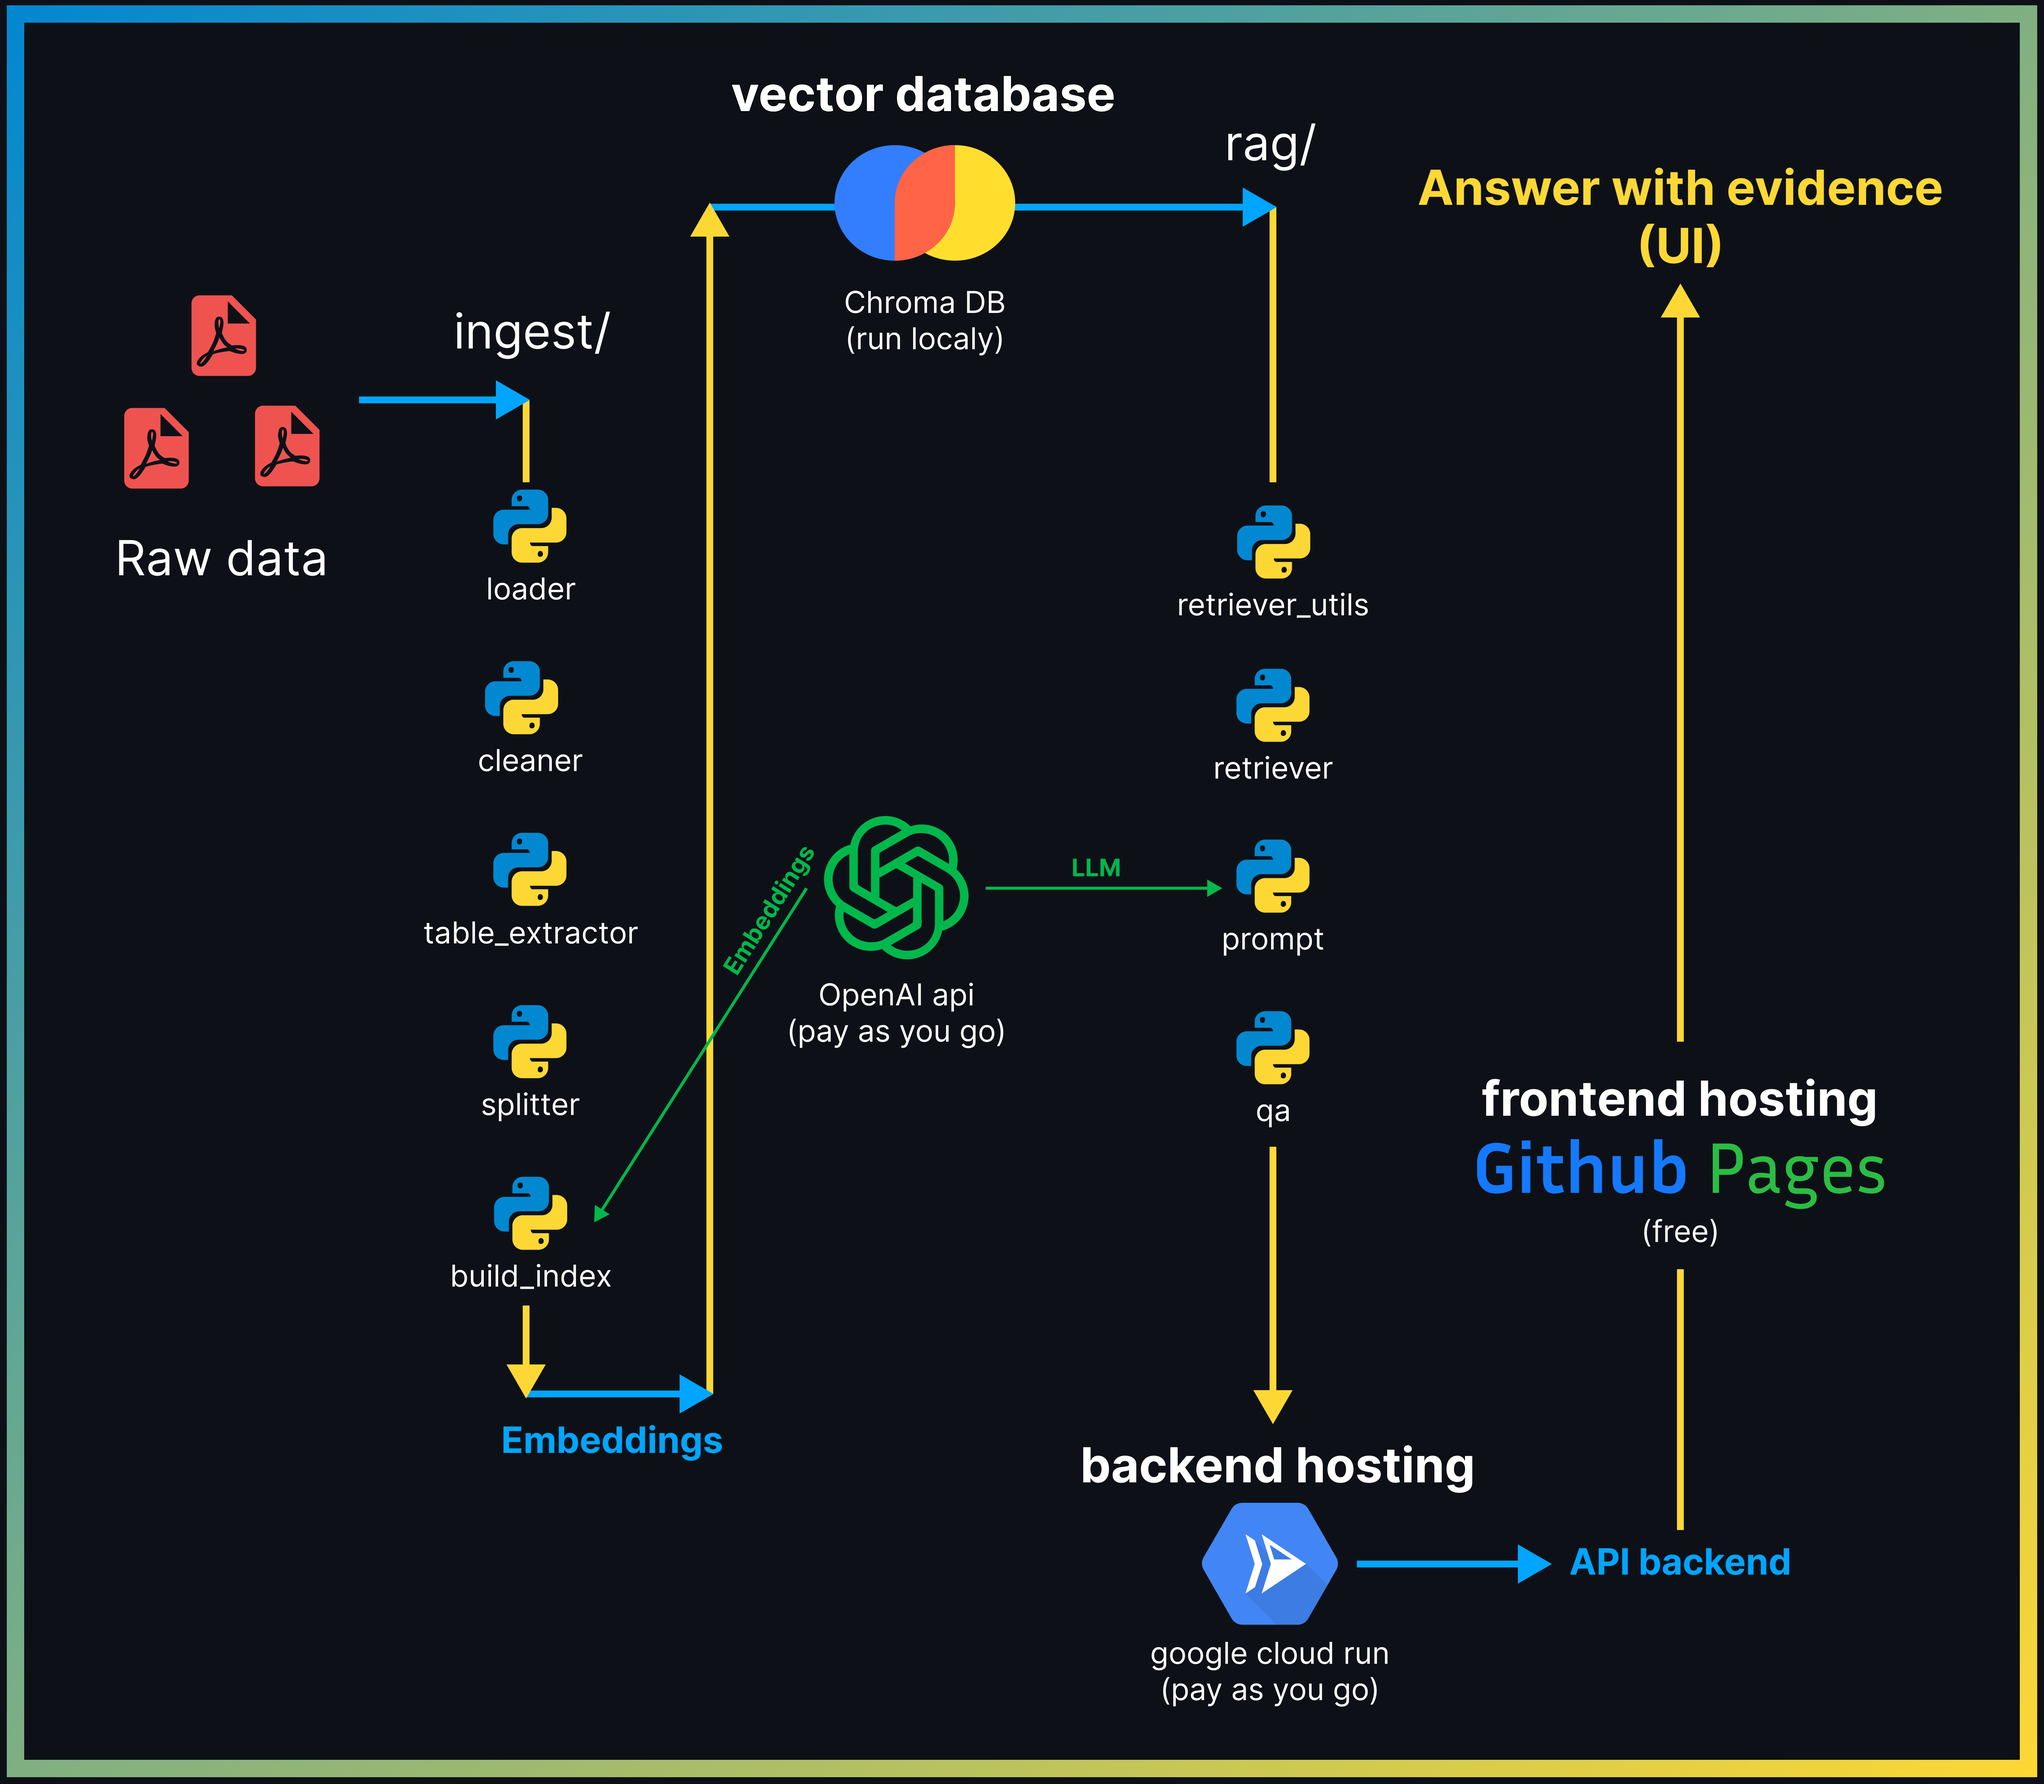
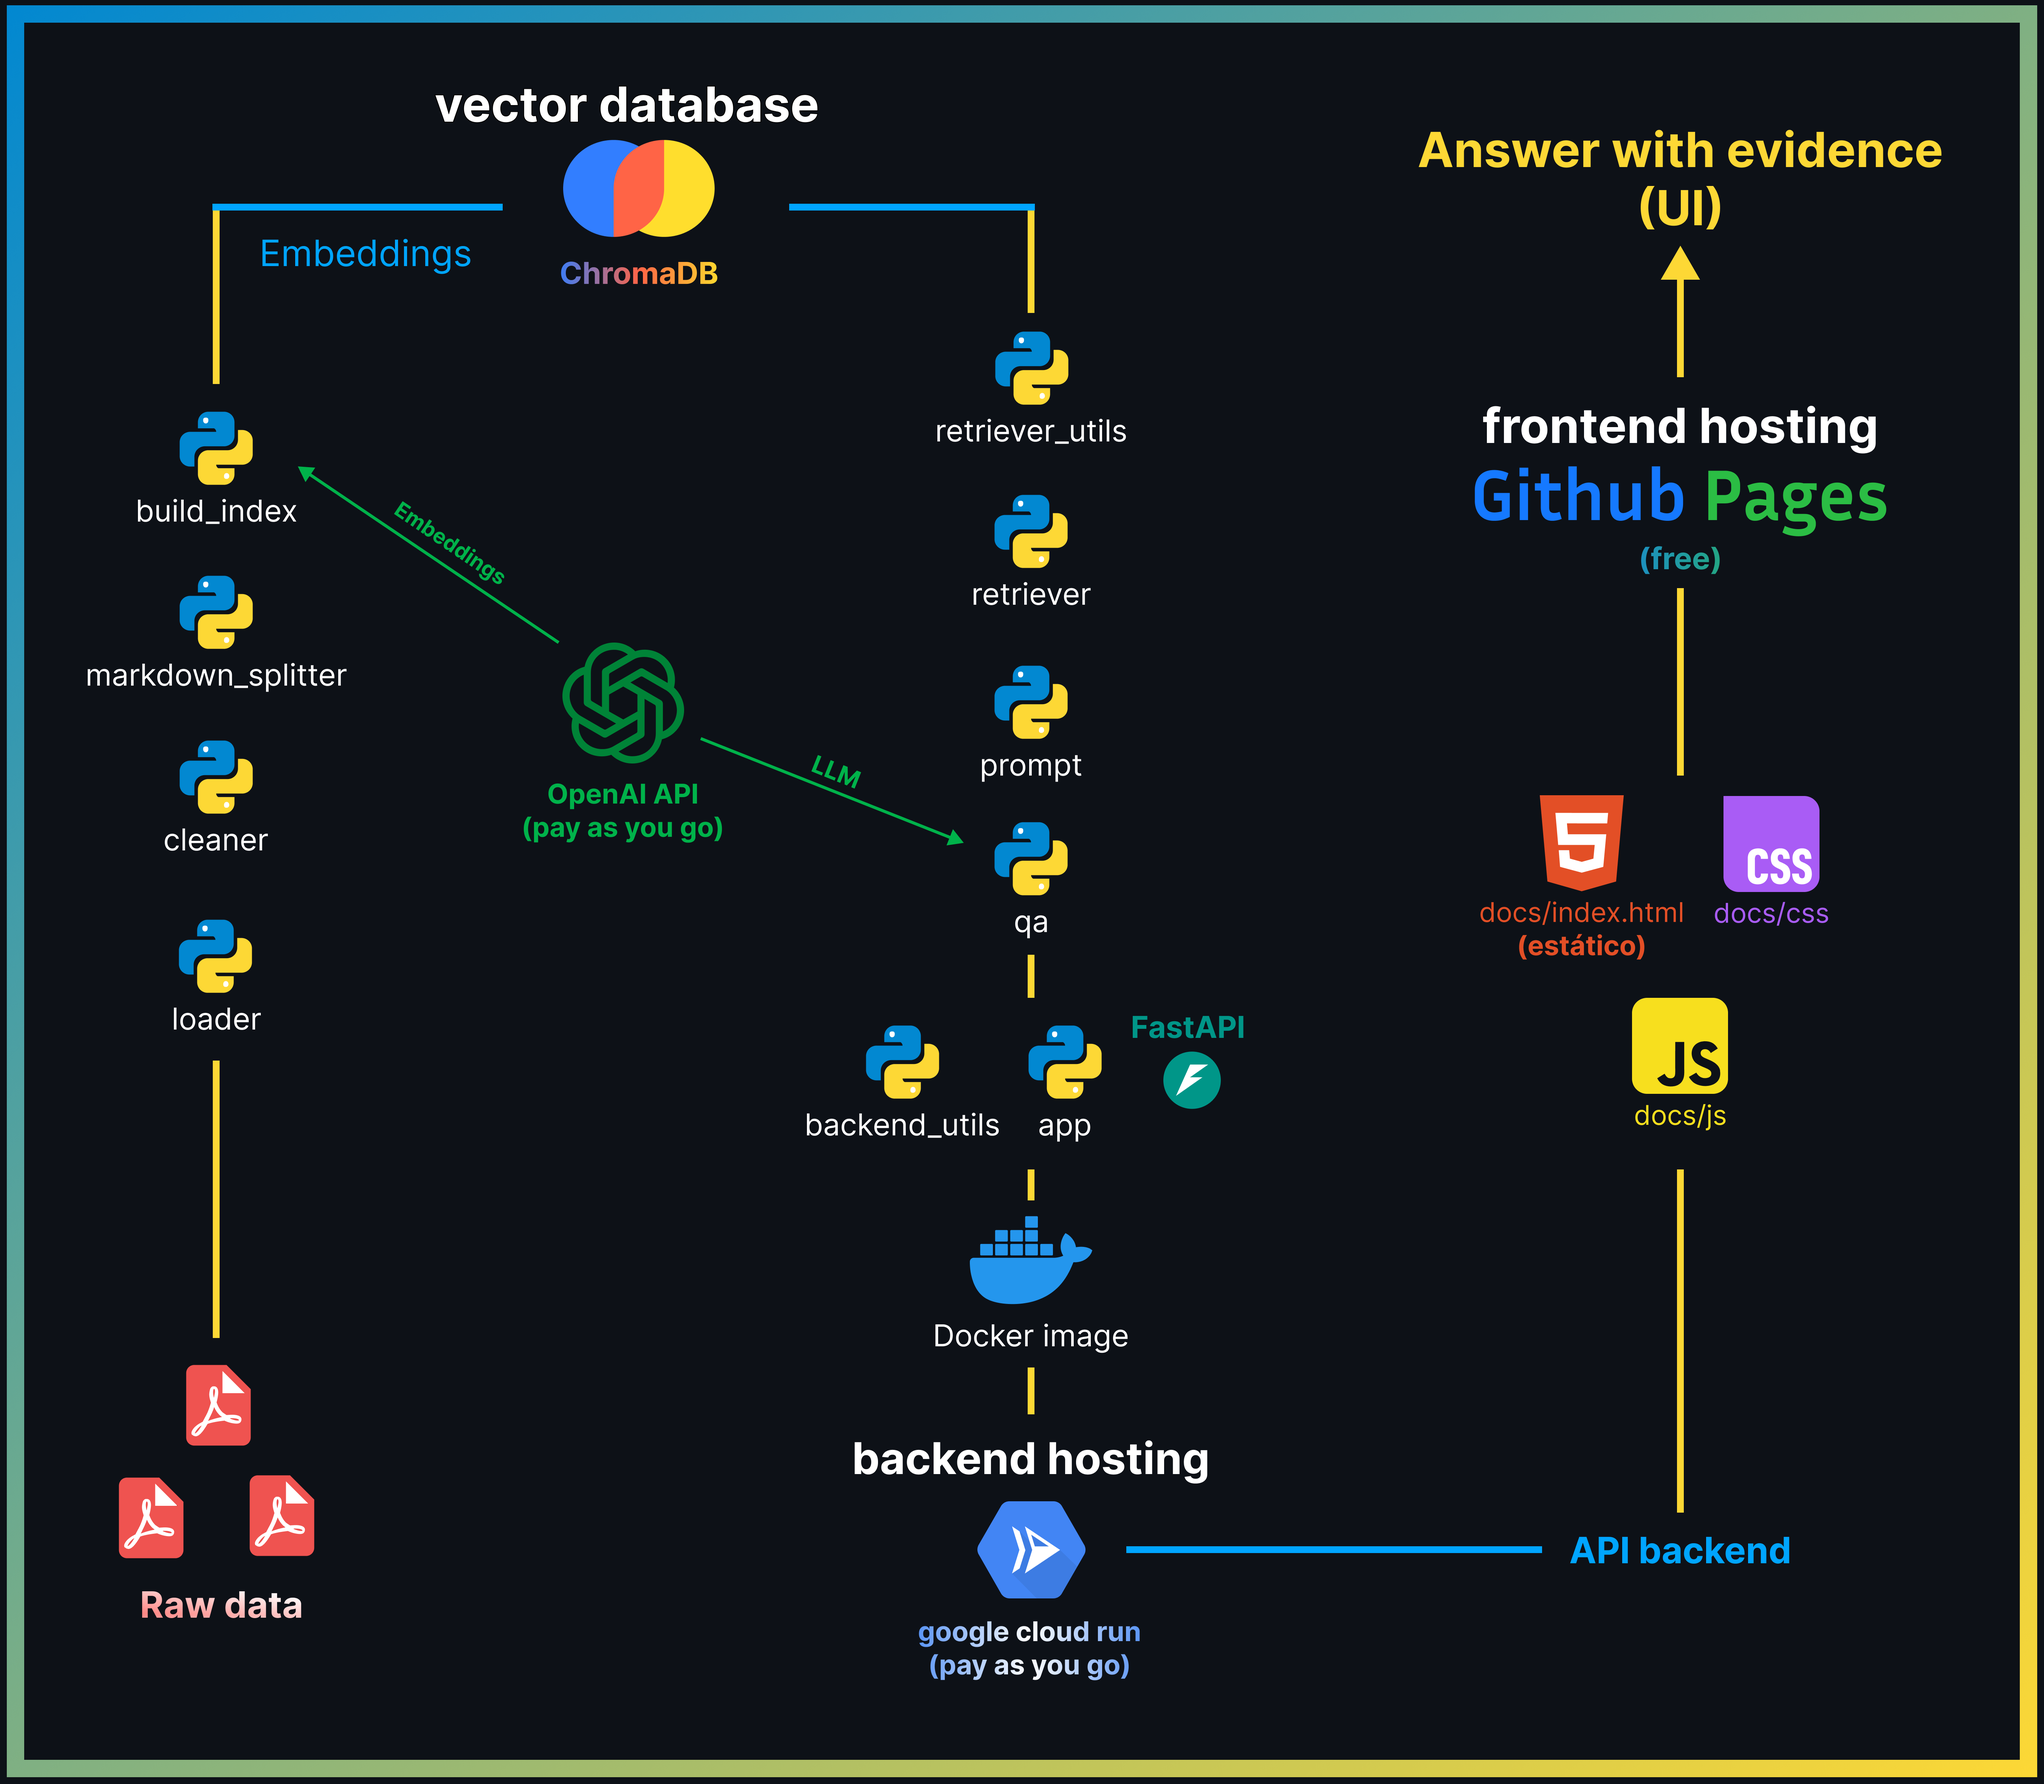
Commit 45: Refactor UI and update README

diff --git a/docs/index.html b/docs/index.html
@@ -4,12 +4,12 @@
     <meta charset="UTF-8">
     <meta name="viewport" content="width=device-width, initial-scale=1.0">
     <title>RAG financiero</title>
-    <link rel="stylesheet" href="index.css"/>
-    <link rel="stylesheet" href="left_panel.css"/>
-    <link rel="stylesheet" href="mid_panel.css"/>
-    <link rel="stylesheet" href="right_panel.css"/>
-    <link rel="stylesheet" href="responsive.css"/>
-    <link rel="icon" href="../assets/icon.ico"/>
+    <link rel="stylesheet" href="./css/index.css"/>
+    <link rel="stylesheet" href="./css/left_panel.css"/>
+    <link rel="stylesheet" href="./css/mid_panel.css"/>
+    <link rel="stylesheet" href="./css/right_panel.css"/>
+    <link rel="stylesheet" href="./css/responsive.css"/>
+    <link rel="icon" href="./assets/icon.ico"/>
 </head>
 <body>
     <div class="modal-backdrop" id="disclaimer-backdrop">
@@ -51,7 +51,7 @@
         <header class="descriptive-title">
             <div class="title-bar">
                 <button class="hamburger hamburger-left" id="btn-left" aria-label="Abrir Evidence">
-                    <img class="hamburger-icon" src="../assets/libro_abierto.png" alt="" aria-hidden="true">
+                    <img class="hamburger-icon" src="./assets/libro_abierto.png" alt="" aria-hidden="true">
                 </button>
 
                 <div class="title-inner">
@@ -59,7 +59,7 @@
                 </div>
 
                 <button class="hamburger hamburger-right" id="btn-right" aria-label="Abrir Filtros">
-                    <img class="hamburger-icon" src="../assets/filtrar.png" alt="" aria-hidden="true">
+                    <img class="hamburger-icon" src="./assets/filtrar.png" alt="" aria-hidden="true">
                 </button>
             </div>
         </header>
@@ -103,22 +103,22 @@
 
             <div class="social-row">
                 <a class="social" href="https://github.com/OscarV123?tab=overview" target="_blank" rel="noopener">
-                    <img class="social-icon icon-gh" src="../assets/github_icon.svg" alt="GitHub">
+                    <img class="social-icon icon-gh" src="./assets/github_icon.svg" alt="GitHub">
                 </a>
 
                 <a class="social" href="https://www.linkedin.com/in/oscar-valderrama-bautista" target="_blank" rel="noopener">
-                    <img class="social-icon icon-in" src="../assets/linkedin_icon.svg" alt="LinkedIn">
+                    <img class="social-icon icon-in" src="./assets/linkedin_icon.svg" alt="LinkedIn">
                 </a>
 
                 <a class="social" href="https://www.youtube.com/@FishyMIDI" target="_blank" rel="noopener">
-                    <img class="social-icon icon-yt" src="../assets/youtube.png" alt="YouTube">
+                    <img class="social-icon icon-yt" src="./assets/youtube.png" alt="YouTube">
                 </a>
             </div>
 
             <p class="right-subtitle">Enlace a mi otro proyecto</p>
 
             <a class="project-link" href="https://github.com/OscarV123/image-classification-resnet18" target="_blank" rel="noopener">
-                <img class="project-avatar" src="../assets/profile.jpg" alt="Avatar">
+                <img class="project-avatar" src="./assets/profile.jpg" alt="Avatar">
                 <span>image-classification-resnet18</span>
             </a>
         </div>
@@ -185,35 +185,35 @@
 
             <div class="docs-scroll" id="docs-scroll">
                 <div class="doc-card" data-doc-id="ReporteNoAuditado_4T-2024">
-                    <img src="../assets/pdf_imagen.png" alt="" class="doc-icon">
+                    <img src="./assets/pdf_imagen.png" alt="" class="doc-icon">
                     <span class="doc-name">Reportes de resultados 4T (2024)</span>
                 </div>
                 <div class="doc-card" data-doc-id="Informe_Auditado_EEFF_Separados_2022">
-                    <img src="../assets/pdf_imagen.png" alt="" class="doc-icon">
+                    <img src="./assets/pdf_imagen.png" alt="" class="doc-icon">
                     <span class="doc-name">Estados financieros separados (2022)</span>
                 </div>
                 <div class="doc-card" data-doc-id="Informe_Auditado_EEFF_Consolidados_2023">
-                    <img src="../assets/pdf_imagen.png" alt="" class="doc-icon">
+                    <img src="./assets/pdf_imagen.png" alt="" class="doc-icon">
                     <span class="doc-name">Estados financieros consolidados (2023)</span>
                 </div>
                 <div class="doc-card" data-doc-id="HechosDeImportancia_Otros_Diciembre-2022">
-                    <img src="../assets/pdf_imagen.png" alt="" class="doc-icon">
+                    <img src="./assets/pdf_imagen.png" alt="" class="doc-icon">
                     <span class="doc-name">Hechos de importancia (Diciembre-2022)</span>
                 </div>
                 <div class="doc-card" data-doc-id="HechosDeImportancia_ConvocatoriaAJuntaDeAccionistas_Febrero-2023">
-                    <img src="../assets/pdf_imagen.png" alt="" class="doc-icon">
+                    <img src="./assets/pdf_imagen.png" alt="" class="doc-icon">
                     <span class="doc-name">Hechos de importancia (Febrero-2023)</span>
                 </div>
                 <div class="doc-card" data-doc-id="HechosDeImportancia_EmisionDeValores_Diciembre-2023">
-                    <img src="../assets/pdf_imagen.png" alt="" class="doc-icon">
+                    <img src="./assets/pdf_imagen.png" alt="" class="doc-icon">
                     <span class="doc-name">Hechos de importancia (Diciembre-2023)</span>
                 </div>
                 <div class="doc-card" data-doc-id="HechosDeImportancia_ConvocatoriaAJuntaDeAccionistas_Febrero-2024">
-                    <img src="../assets/pdf_imagen.png" alt="" class="doc-icon">
+                    <img src="./assets/pdf_imagen.png" alt="" class="doc-icon">
                     <span class="doc-name">Hechos de importancia (Febrero-2024)</span>
                 </div>
                 <div class="doc-card" data-doc-id="HechosDeImportancia_Recompra-Redencion-Rescate_Septiembre-2024">
-                    <img src="../assets/pdf_imagen.png" alt="" class="doc-icon">
+                    <img src="./assets/pdf_imagen.png" alt="" class="doc-icon">
                     <span class="doc-name">Hechos de importancia (Septiembre-2024)</span>
                 </div>
             </div>
@@ -221,11 +221,11 @@
 
         <div class="theme-row">
             <button class="theme-btn is-active" type="button" data-theme="light" aria-label="Tema claro">
-                <img src="../assets/tema_claro.png" alt="Tema claro">
+                <img src="./assets/tema_claro.png" alt="Tema claro">
             </button>
 
             <button class="theme-btn" type="button" data-theme="dark" aria-label="Tema oscuro">
-                <img src="../assets/tema_oscuro.png" alt="Tema oscuro">
+                <img src="./assets/tema_oscuro.png" alt="Tema oscuro">
             </button>
         </div>
     </aside>

diff --git a/docs/js/evidences.js b/docs/js/evidences.js
@@ -1,3 +1,5 @@
+const API_BASE_URL = "http://127.0.0.1:8080";
+
 const documentNames = {
     "ReporteNoAuditado_4T-2024": "Reportes de resultados 4T (2024)",
     "Informe_Auditado_EEFF_Separados_2022": "Estados financieros separados (2022)",
@@ -57,7 +59,7 @@ function renderEvidencesInLeftPanel(evidences) {
     `;
 
     divEvidence.addEventListener("click", () => {
-      const urlPdf = `http://127.0.0.1:8000/abrir-pdf/${docId}.pdf#page=${pageNum}`;
+      const urlPdf = `${API_BASE_URL}/abrir-pdf/${docId}.pdf#page=${pageNum}`;
       window.open(urlPdf, '_blank', 'noopener,noreferrer');
     });
 
@@ -69,7 +71,7 @@ function convertQuotesToLinks(texto) {
   const regex = /([\w-]+),\s*Pág\.\s*(\d+)/g;
 
   return texto.replace(regex, (match, docId, pageNum) => {
-    const url = `http://127.0.0.1:8000/abrir-pdf/${docId}.pdf#page=${pageNum}`;
+    const url = `${API_BASE_URL}/abrir-pdf/${docId}.pdf#page=${pageNum}`;
 
     return `<a href="${url}" target="_blank" rel="noopener noreferrer" class="pdf-inline-link">${friendlyName(docId)}, Pág. ${pageNum}</a>`;
   });
@@ -80,7 +82,7 @@ document.querySelectorAll(".doc-card").forEach(card => {
   card.addEventListener("click", () => {
     const docId = card.dataset.docId;
     if (!docId) return;
-    const urlPdf = `http://127.0.0.1:8000/abrir-pdf/${docId}.pdf`;
+    const urlPdf = `${API_BASE_URL}/abrir-pdf/${docId}.pdf`;
     window.open(urlPdf, '_blank', 'noopener,noreferrer');
   });
 });

diff --git a/docs/js/index.js b/docs/js/index.js
@@ -47,9 +47,8 @@ function createLoadingMessage() {
 }
 
 async function sendQuery(question, { topKValue, explicitWhere, modeValue }) {
-  const url = "http://127.0.0.1:8000/query";
 
-  const response = await fetch(url, {
+  const response = await fetch(`${API_BASE_URL}/query`, {
     method: "POST",
     headers: {
       "Content-Type": "application/json",
@@ -146,16 +145,17 @@ async function handleSend() {
     }, 300);
 
   } catch (err) {
-    console.error(err);
+    loadingWrap?.remove();
 
-    if (loadingWrap && loadingWrap.parentNode) {
-      loadingWrap.remove();
+    let mensaje = "Ocurrió un error al enviar la consulta.";
+
+    if (err instanceof TypeError && err.message.includes("Failed to fetch")) {
+      mensaje = "No se pudo conectar con el servidor.";
+    } else if (err.status === 429) {
+      mensaje = "Has alcanzado el límite de consultas permitido: 20 por minuto o 70 por día.";
     }
 
-    await appendBotMessage(
-      console.log(err.status),
-      err.status === 429 ? "Has alcanzado el límite de consultas permitido: 20 por minuto o 70 por día." : "Ocurrió un error al enviar la consulta."
-    );
+    await appendBotMessage(mensaje);
 
     finishSend();
   }

diff --git a/README.md b/README.md
@@ -3,24 +3,31 @@
 # Financial RAG QA Assistant | Full-Stack Web App
 A complete full-stack Retrieval-Augmented Generation (RAG) web app for financial Q&A over audited statements, answering only from provided evidence with document-level traceability.
 
-**Live Demo ->** `[SOON!!!]`
+**Live Demo:** https://oscarv123.github.io/alicorp-financial-rag/
 
 ## Architecture Overview
 
-![RAG Architecture](assets/architecture.png)
+![RAG Architecture](docs/assets/architecture.png)
 
 ## Project Structure
 - `data/`: Contains the datasets used by the RAG pipeline, including raw and processed PDFs.
     - `processed/`: Preprocessed data generated from raw documents, including extracted text and chunked content prepared for embedding and indexing in ChromaDB.
     - `raw/`: Original financial documents (PDFs) in human-readable format, used as the primary source of truth.
 ---
+- `docs/`: Static frontend published through GitHub Pages.
+    - `assets/`: Images, icons, and other visual resources used by the interface.
+    - `css/`: Stylesheets for layout, panels, responsive behavior, and visual presentation.
+    - `js/`: Frontend logic for chat interaction, API requests, evidence rendering, filters, themes, and UI behavior.
+    - **index.html**: Main entry point of the web interface.
+---
 - `src/`: Source code files for the application.
+    - `backend/`: Shared backend utilities used by the FastAPI API layer.
+        - **backend_utils.py**: Tracks request timestamps by client IP and enforces configurable per-minute and daily rate limits.
     - `ingest/`: Ingestion and preprocessing logic for extracting high-quality text chunks from raw financial PDFs.
         - **build_index.py**: Generates embeddings from chunks and persists them into the ChromaDB vector store (offline ingestion).
         - **cleaner.py**: Short script wich cleans and normalizes raw PDF text, reducing layout noise while preserving financial values.
         - **loader.py**: Loads raw PDFs and extracts page-level text with document and page metadata for traceable RAG ingestion.
-        - **splitter.py**: Converts page text into overlapping chunks while preserving page-level traceability.
-        - **table_extractor.py**: Logic to extract table content from PDFs as faithfully as possible.
+        - **markdown_splitter.py**: Splits Markdown-converted financial documents into section-based chunks.
     - `rag/`: Core RAG logic.
         - **prompt.py**: Prompt templates and strict grounding rules for evidence-based financial QA (anti-hallucination + citation policy).
         - **qa.py**: RAG QA orchestrator that retrieves evidence, builds grounded context, calls the LLM, and returns the final answer with citations.
